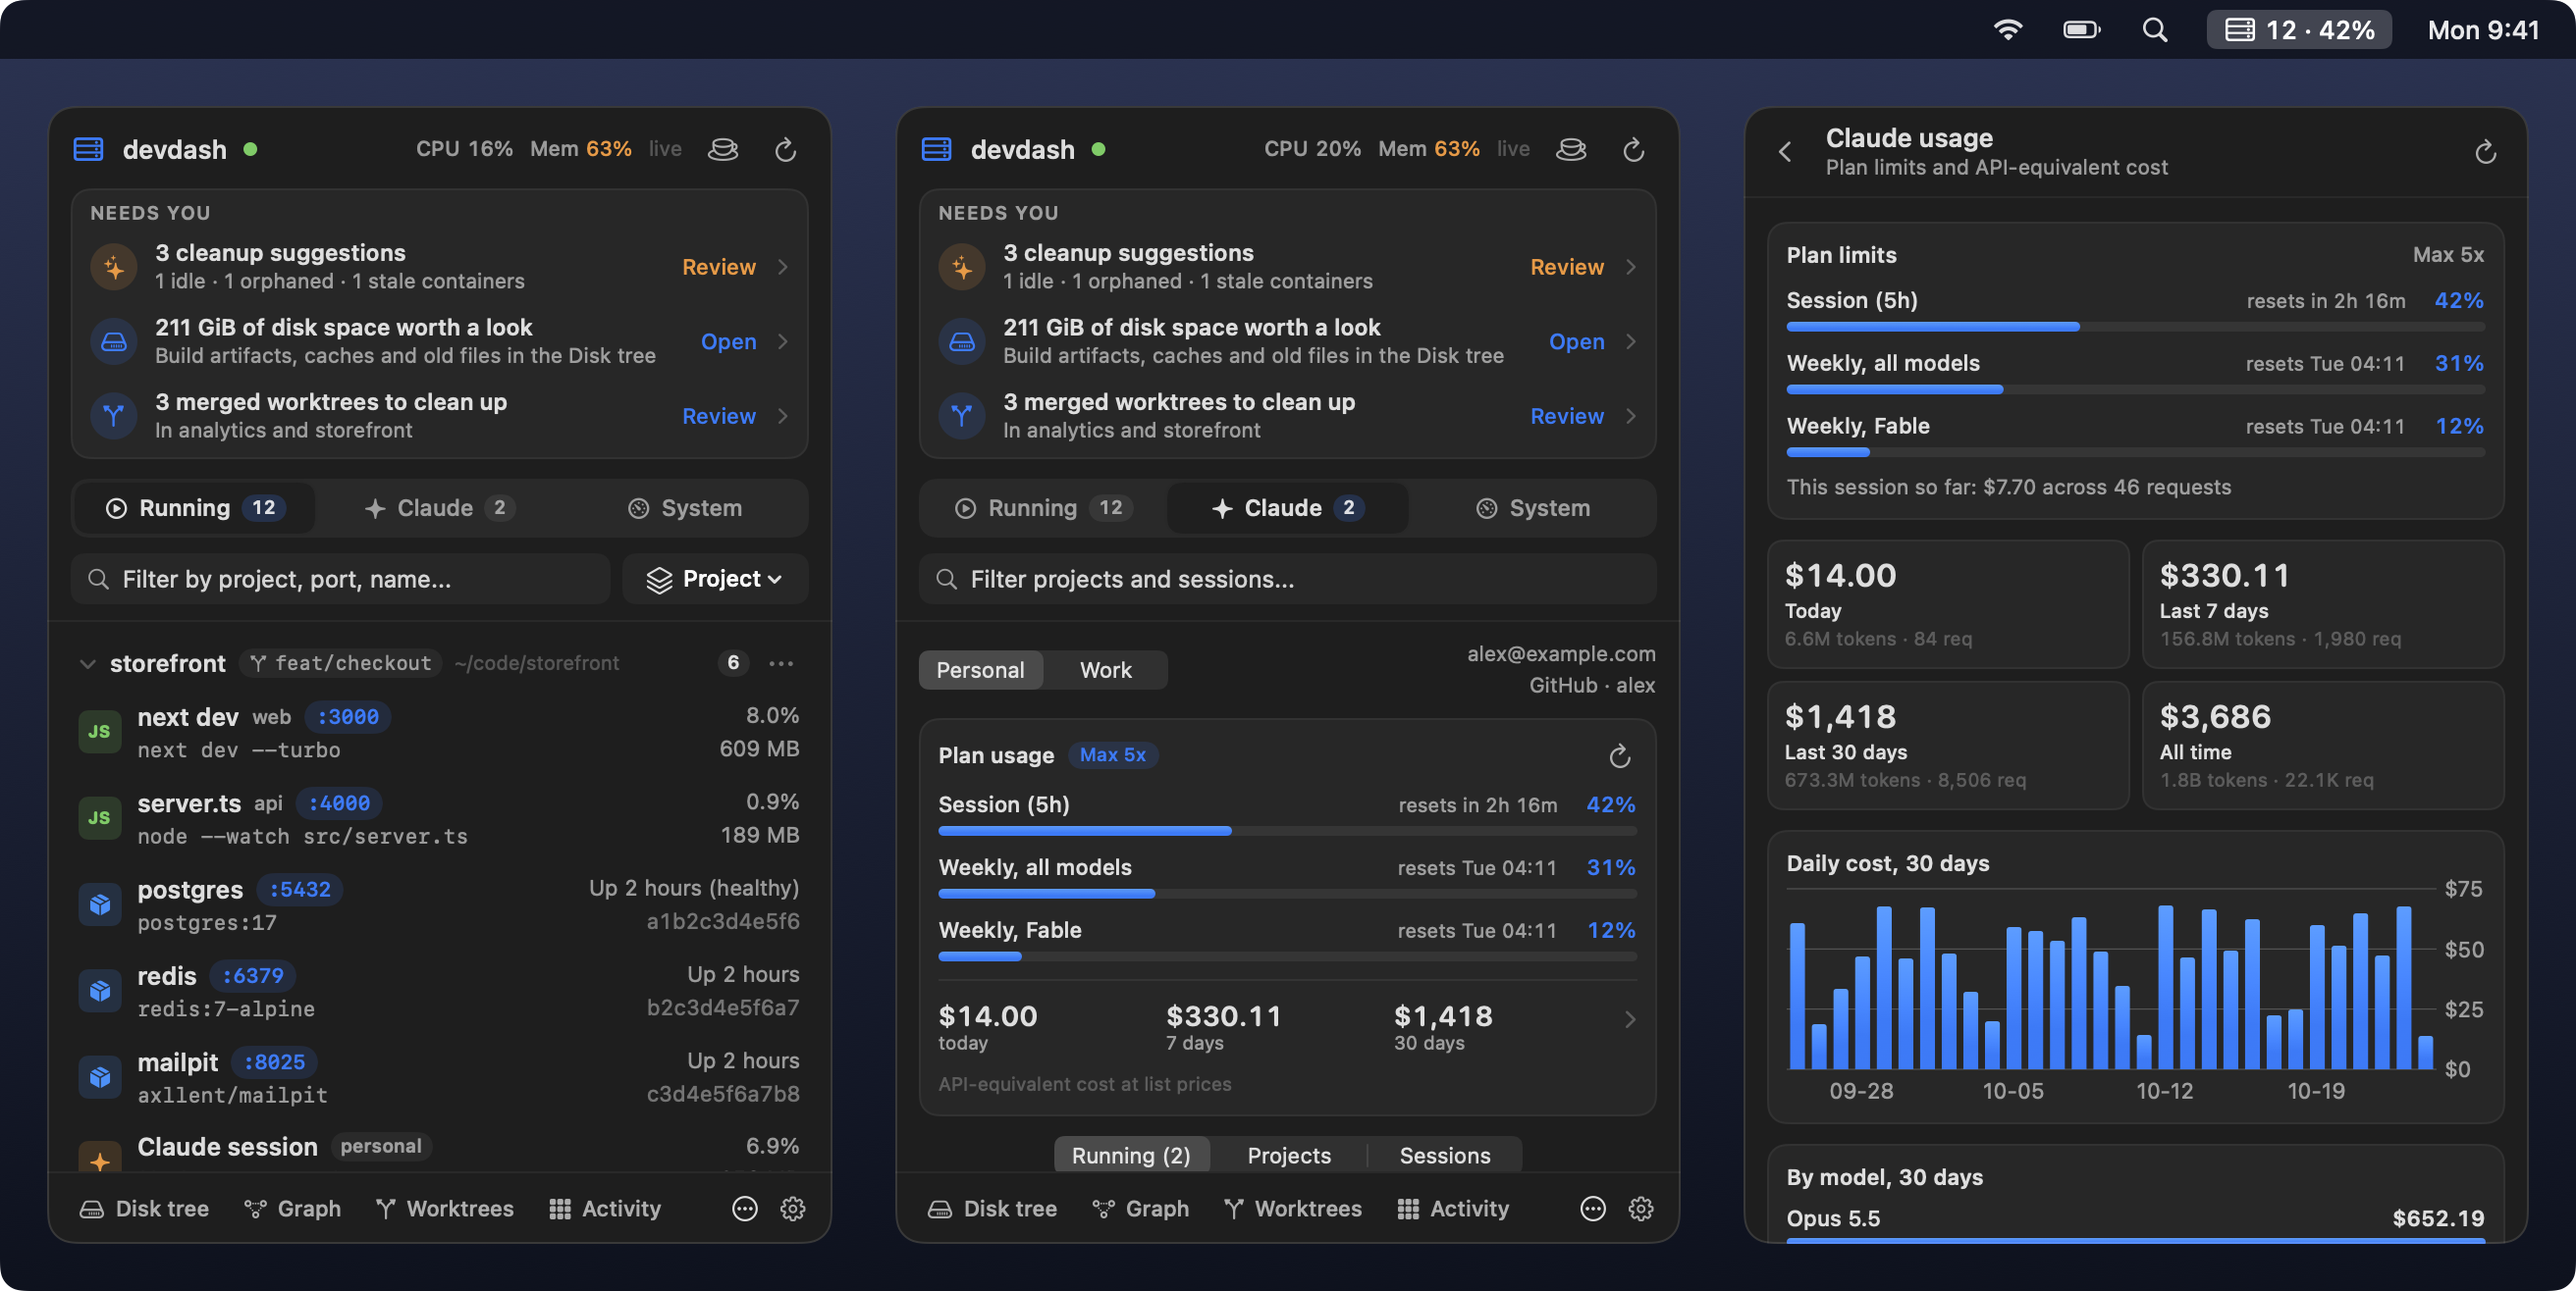
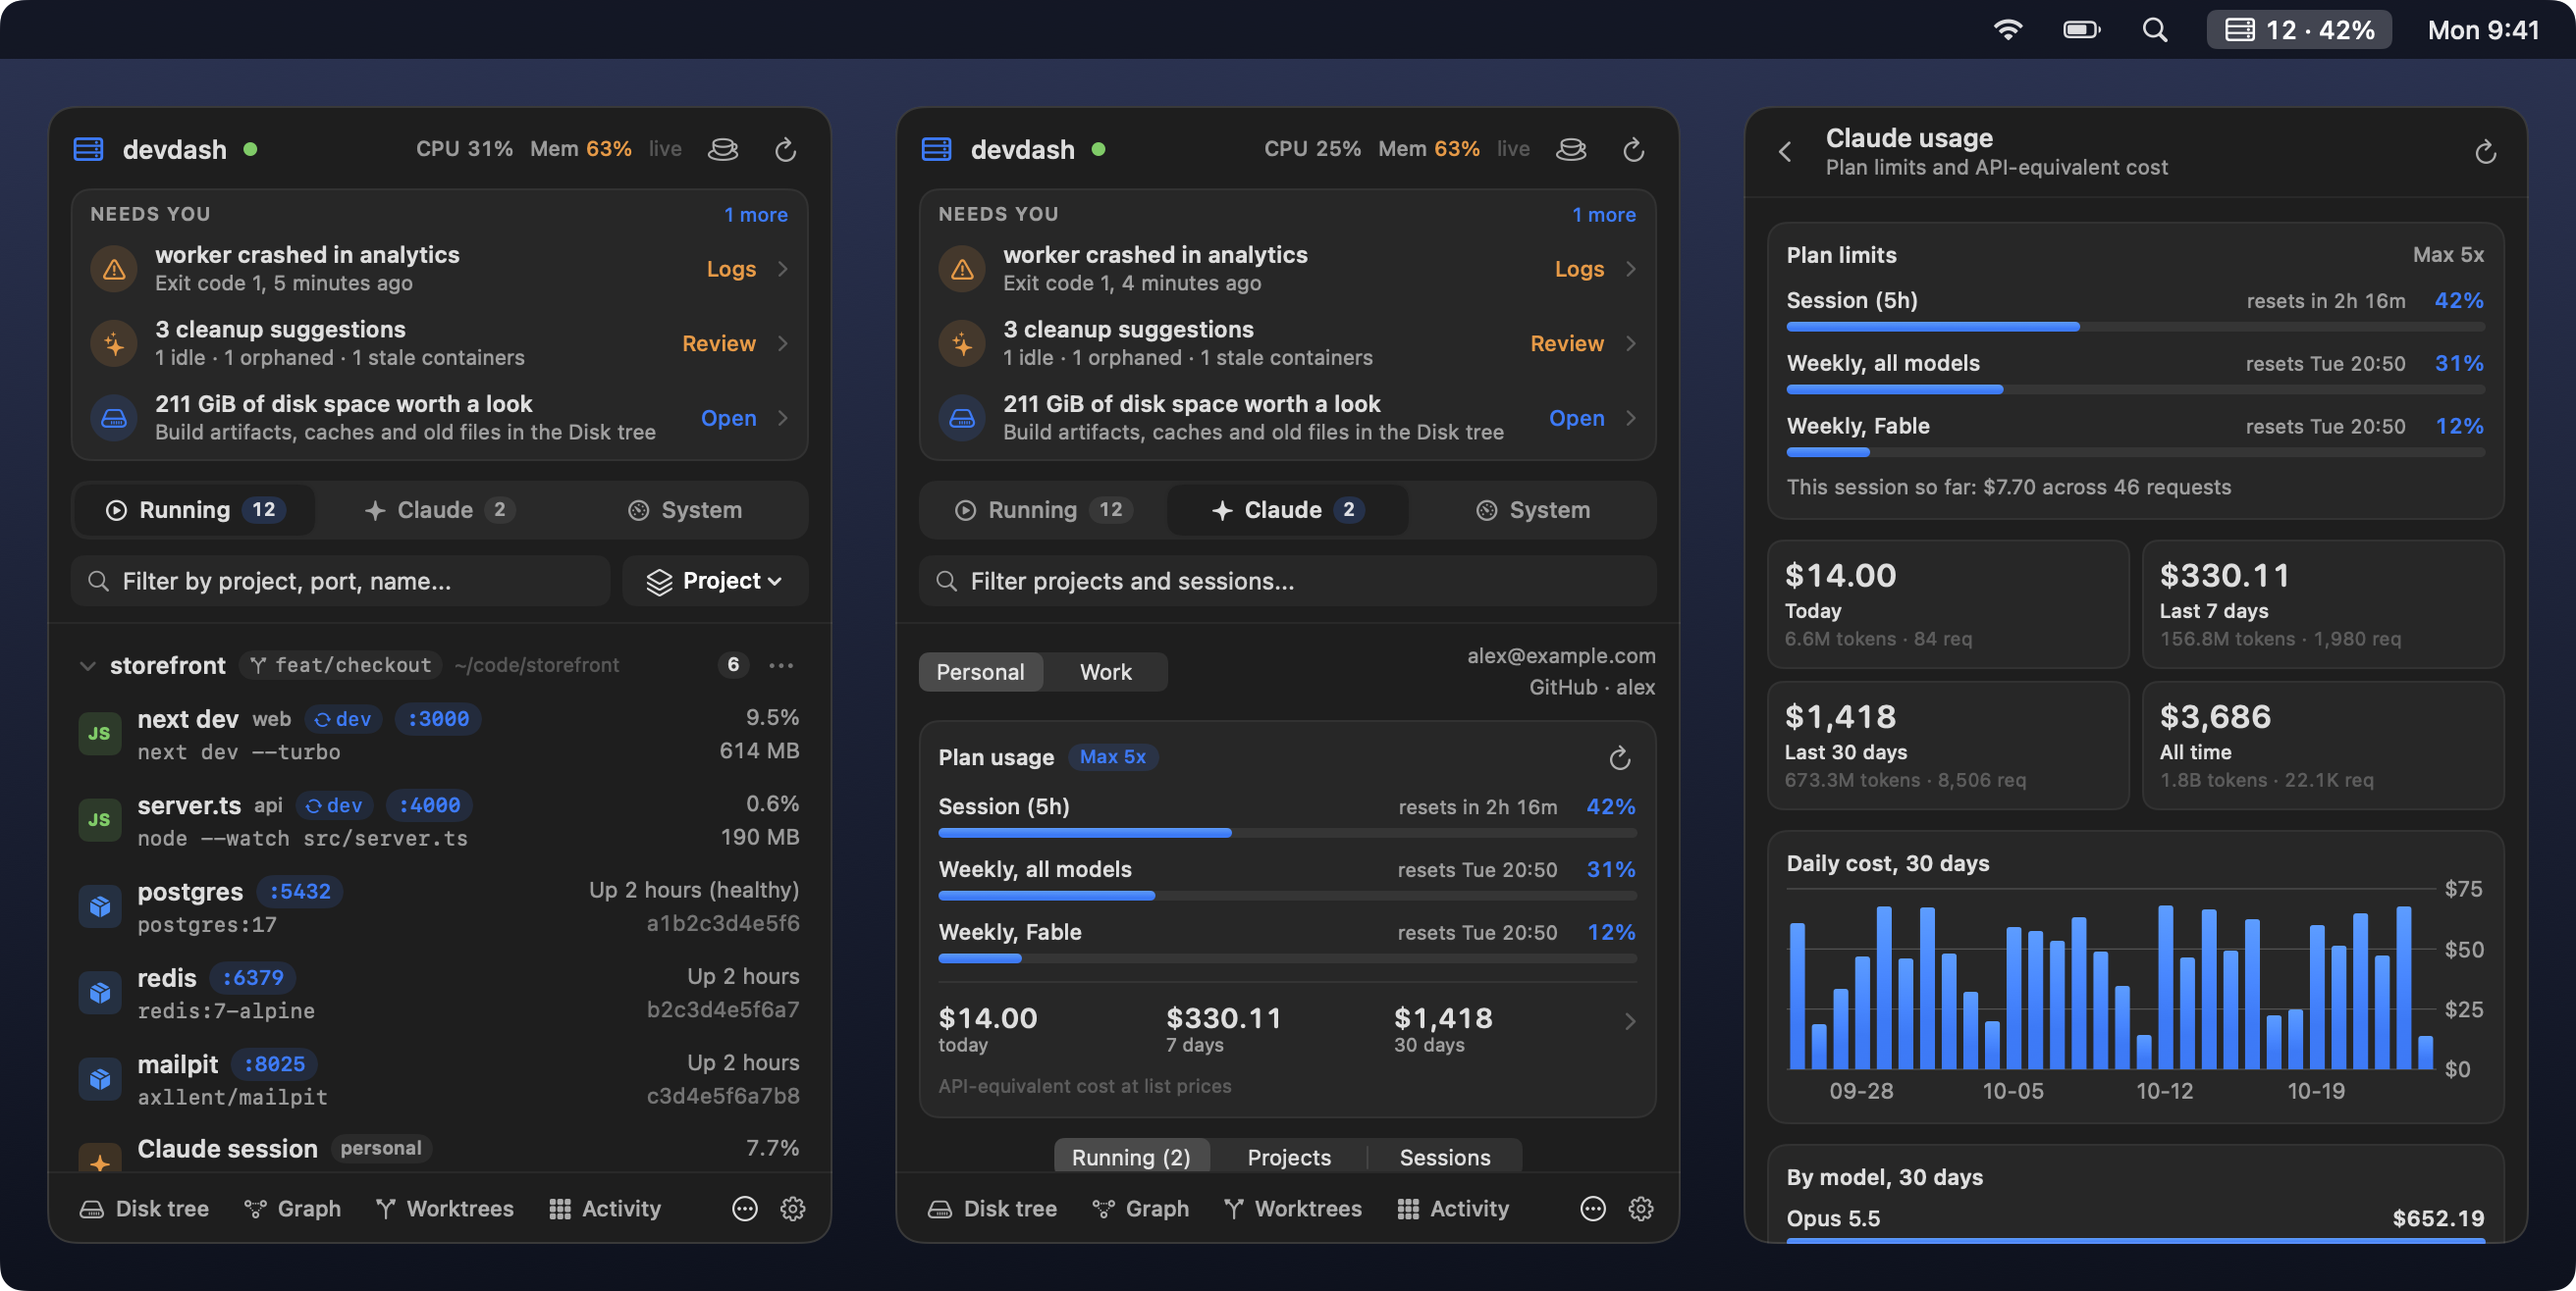
Render Ready to run and the logs window, refresh screenshots

diff --git a/macos/Sources/DevDashBar/SelfTest.swift b/macos/Sources/DevDashBar/SelfTest.swift
@@ -46,6 +46,7 @@ enum SelfTest {
             print("FAIL no snapshot received")
             return 1
         }
+        print("ok   runs=\(snapshot.runs?.count ?? -1) runnable=\(snapshot.runnable?.count ?? -1)")
         print("ok   snapshot node=\(snapshot.node.count) docker=\(snapshot.docker.count) procs=\(snapshot.processes.count) cleanup=\(snapshot.cleanup.count) claude=\(claudeSeen)")
 
         var failures = 0
@@ -207,14 +208,40 @@ enum Renderer {
             ("qrcode", { store.routes = urlRoute(store) { $0.primaryURL?.lan != nil } }),
             ("worktrees", { store.routes = [.worktrees(repo: nil, cleanup: false)] }),
             ("qrcode-localhost", { store.routes = urlRoute(store) { $0.exposeHint?.hasPrefix("Restart") == true } }),
+            // A crashed run without a server row, in its project.
+            ("run-crashed", {
+                store.routes = []
+                toggleProjects(store)
+                if let run = store.crashedRuns.first { store.toggleCollapsed(id: run.projectRoot) }
+            }),
         ]
         for (name, apply) in screens {
             apply()
             try? await Task.sleep(for: .milliseconds(1500))
             capture(panel, to: dir.appendingPathComponent("\(name).png"))
         }
+        toggleProjects(store)
+        if let run = store.crashedRuns.first { store.toggleCollapsed(id: run.projectRoot) }
         store.routes = []
         store.tab = .running
+
+        // Ready to run sits at the bottom, so this one gets its own store with Needs you dismissed.
+        let readyStore = Store()
+        await waitForData(readyStore)
+        toggleProjects(readyStore)
+        readyStore.toggleCollapsed(id: ReadyToRunSection.id)
+        Attention.items(store: readyStore, disk: disk).forEach(readyStore.dismiss)
+        let readyPanel = host(PanelFrame { PopoverView().environment(readyStore).environment(disk) }, size: PanelFrame<EmptyView>.size)
+        try? await Task.sleep(for: .milliseconds(1500))
+        capture(readyPanel, to: dir.appendingPathComponent("ready.png"))
+        readyStore.shutdown()
+
+        if let run = store.runs.first(where: \.isAlive) {
+            let target = LogTarget(file: run.log, runId: run.id, name: "\(run.title) · \(run.projectName)")
+            let logs = host(LogsView(target: target).environment(store).background(.background), size: CGSize(width: 760, height: 420))
+            try? await Task.sleep(for: .milliseconds(1500))
+            capture(logs, to: dir.appendingPathComponent("logs.png"))
+        }
 
         let claudeStore = Store()
         let usageStore = Store()
